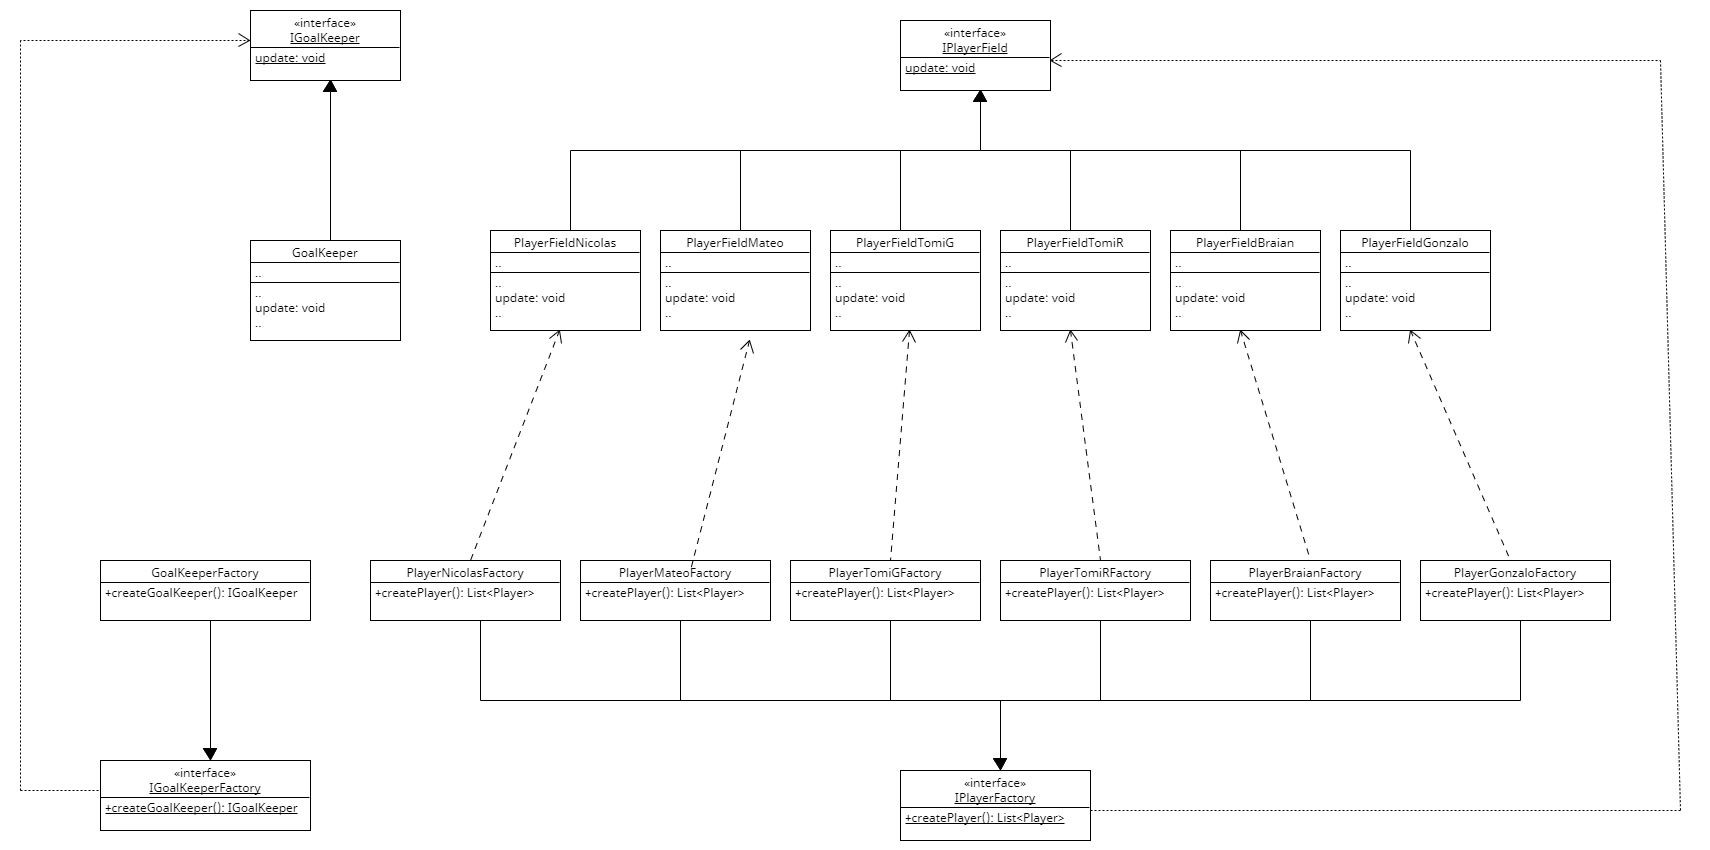
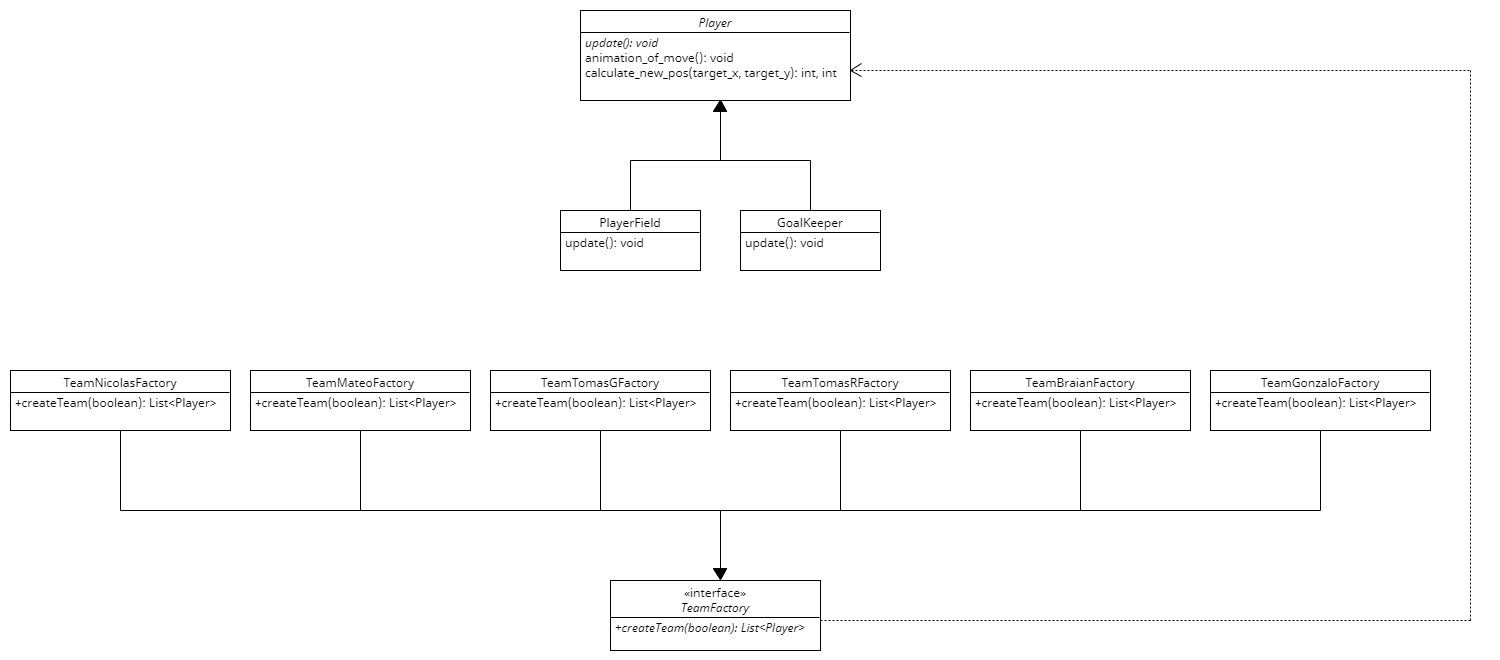
Actualizacion de codigo y diagrama uml de factories

diff --git a/players/TeamTomasRFactory.py b/players/TeamTomasRFactory.py
@@ -1,9 +1,11 @@
-from players.TeamFactory import TeamFactory 
-from Strategies.TomasRStrategy import TomasRStrategy
-from players.PlayerField import PlayerField
-from players.GoalKeeper import GoalKeeper
+#from TeamFactory import TeamFactory 
+from ..Strategies.TomasRStrategy import TomasRStrategy
+from players.TeamFactory import TeamFactory
+#from ..Strategies.TomasRStrategy import TomasRStrategy
+from PlayerField import PlayerField
+from GoalKeeper import GoalKeeper
 
-class TeamTomiRFactory(TeamFactory):
+class TeamTomasRFactory(TeamFactory):
 
     def createPlayer(self, spritePNG, mediator, team, cantPlayers):
         team = []
